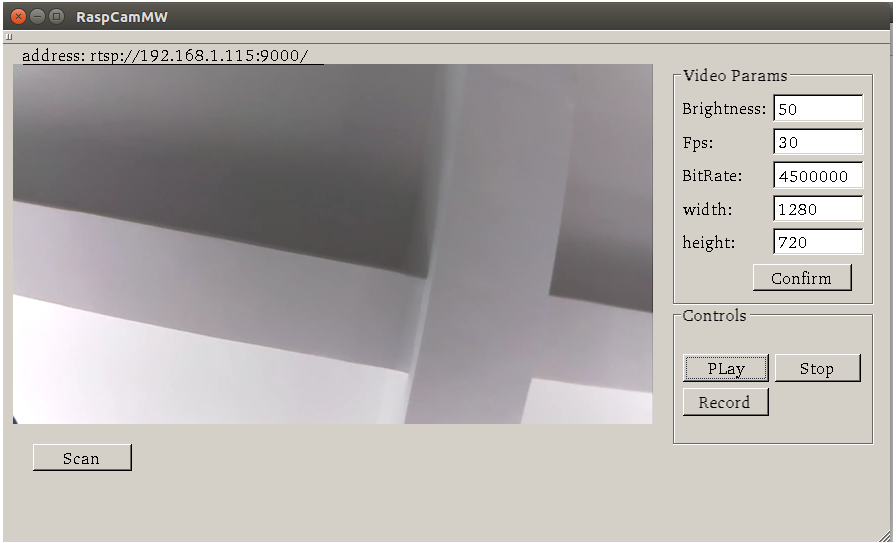
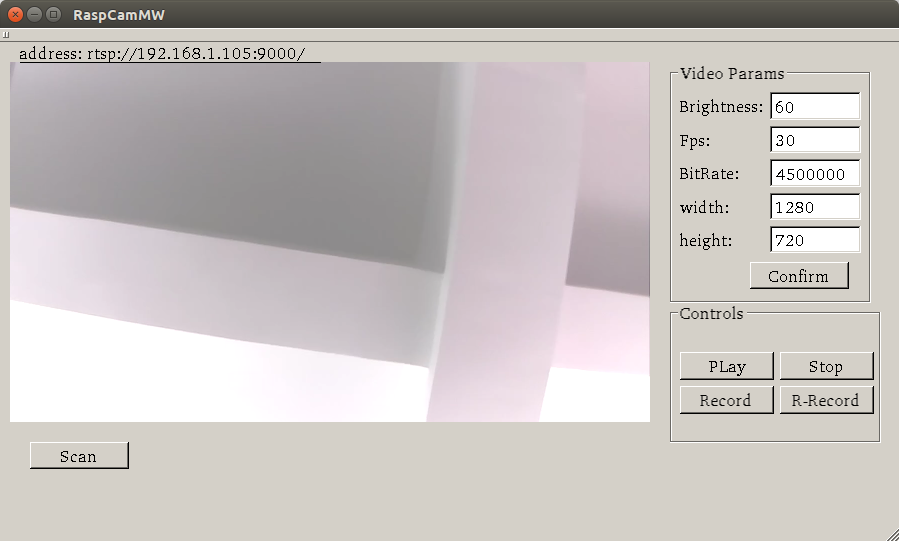
support video record server and client

diff --git a/server/ctlserver.py b/server/ctlserver.py
@@ -6,6 +6,7 @@
 import os
 import sys
 import cgi
+import time
 import signal
 import socket
 import threading
@@ -14,6 +15,7 @@ import SocketServer
 import BaseHTTPServer
 import logging
 import subprocess
+
 
 
 def signal_handler(signals, frame):
@@ -68,6 +70,8 @@ class RaspvidCmd(object):
         self.width = 1280
         self.height = 720
         self.stime = 0         # forever
+        self.record = False
+        self.recordfname = ''
 
     def cmd(self):
         """ return cmd str """
@@ -86,8 +90,15 @@ class RaspvidCmd(object):
 
         cmdstr += '|' + ' '
         cmdstr += vlcbase + ' '
-        cmdstr += "-vvv stream:///dev/stdin --sout '#rtp{sdp=rtsp://:"
-        cmdstr += str(self.rtsp_port) + "/}' :demux=h264"
+        cmdstr += '-vvv stream:///dev/stdin --sout' + ' '
+        if self.record and self.recordfname is not '':
+            cmdstr += "'#duplicate{dst=rtp{sdp=rtsp://:" + \
+                      str(self.rtsp_port) + '/}' + \
+                      ',dst=standard{access=file,mux=mp4,dst=' + \
+                      self.recordfname +'.mp4' + "}}'" + ' :demux=h264'
+        else:
+            cmdstr += "'#rtp{sdp=rtsp://:"
+            cmdstr += str(self.rtsp_port) + "/}' :demux=h264"
         return cmdstr
 
 
@@ -165,6 +176,8 @@ class TcpCtlHandler(SocketServer.BaseRequestHandler):
         """ start video process """
         self.vvpmng.getlock()
         try:
+            self.vvpmng.process_cmd.record = False
+            self.vvpmng.process_cmd.recordfname = ''
             if not self.vvpmng.isset():
                 self.vvpmng.start()
                 self.request.sendall(self.vvpmng.process_cmd.cmd())
@@ -249,6 +262,47 @@ class TcpCtlHandler(SocketServer.BaseRequestHandler):
         finally:
             self.vvpmng.releaselock()
 
+    def __record(self):
+        recdir = '/home/pi/records'
+        currtime = time.gmtime()
+        rec_sub_dir_name = ''
+        rec_sub_dir_name += str(currtime.tm_year) + '_'
+        rec_sub_dir_name += str(currtime.tm_mon) + '_'
+        rec_sub_dir_name += str(currtime.tm_mday)
+        day_recdir = recdir + '/' + rec_sub_dir_name
+        filename = str(currtime.tm_hour) + ':' + \
+                   str(currtime.tm_min) + ':' + \
+                   str(currtime.tm_sec)
+        whole_fname = day_recdir + '/' + filename
+        if os.path.exists(day_recdir):
+            if os.path.isdir(day_recdir):
+                if os.path.exists(whole_fname):
+                    os.remove(whole_fname)
+            else:
+                os.remove(day_recdir)
+                os.makedirs(day_recdir)
+        else:
+            os.makedirs(day_recdir)
+
+        self.vvpmng.getlock()
+        self.vvpmng.process_cmd.record = True
+        self.vvpmng.process_cmd.recordfname = whole_fname
+        APPLOGGER.debug(self.vvpmng.process_cmd.cmd())
+        try:
+            if not self.vvpmng.isset():
+                self.vvpmng.start()
+                return
+            if self.vvpmng.isrun():
+                self.vvpmng.stop()
+                self.vvpmng.setprocess(None)
+                self.vvpmng.start()
+            else:
+                self.vvpmng.start()
+        finally:
+            self.request.sendall(self.vvpmng.process_cmd.cmd())
+            self.vvpmng.releaselock()
+
+
     def __process_req(self, data):
         """ process req """
         data = data.strip(' \n')
@@ -262,6 +316,8 @@ class TcpCtlHandler(SocketServer.BaseRequestHandler):
             self.__sysinfo()
         elif data.lower().startswith('change'):
             self.__changevprocss(data)
+        elif data.lower() == 'record':
+            self.__record()
         else:
             APPLOGGER.info('Cmd not support: ' + data)
 

diff --git a/client/RaspiCamClient/controlclient.cpp b/client/RaspiCamClient/controlclient.cpp
@@ -1,5 +1,4 @@
 #include "controlclient.h"
-#include <QStringList>
 #include <QEventLoop>
 
 
@@ -12,6 +11,7 @@ ControlClient::ControlClient(QHostAddress server, qint16 port, QObject *parent) 
     _request = new TcpRequest(this, 1);
     connect(_request, SIGNAL(sigmsg(QString)), this, SLOT(servermsg(QString)));
     _raspcmd_prefix = "raspivid";
+    _supportcmds << "start" << "stop" << "change" << "record";
 }
 
 ControlClient::~ControlClient() {
@@ -22,23 +22,38 @@ ControlClient::~ControlClient() {
 }
 
 void ControlClient::start() {
-    if(_request->connectHost(_serveraddr, _port, 100)) {
-        _request->sendData("start");
-    }
+    _sig_cmd("start");
 }
 
 void ControlClient::stop() {
-    if(_request->connectHost(_serveraddr, _port, 100)) {
-        _request->sendData("stop");
+    _sig_cmd("stop");
+}
+
+void ControlClient::_sig_cmd(const QString &cmd) {
+    if(_supportcmds.contains(cmd)) {
+        if(_request->connectHost(_serveraddr, _port, 100)) {
+            _request->sendData(cmd.toStdString().c_str());
+        }
+    }
+}
+
+void ControlClient::_para_cmd(const QString &prefix, const QString &params) {
+    if(_supportcmds.contains(prefix)) {
+        QString cmd = "";
+        cmd = prefix + "|";
+        cmd += params;
+        if(_request->connectHost(_serveraddr, _port, 100)) {
+            _request->sendData(cmd.toStdString().c_str());
+        }
     }
 }
 
 void ControlClient::change(QString params) {
-    if(_request->connectHost(_serveraddr, _port, 100)) {
-        QString cmd = "change|";
-        cmd += params;
-        _request->sendData(cmd.toStdString().c_str());
-    }
+    _para_cmd("change", params);
+}
+
+void ControlClient::record() {
+    _sig_cmd("record");
 }
 
 

diff --git a/client/RaspiCamClient/raspcammw.cpp b/client/RaspiCamClient/raspcammw.cpp
@@ -44,6 +44,7 @@ void RaspCamMW::_extUISetUp() {
     ui->le_fps->setEnabled(false);
     ui->le_height->setEnabled(false);
     ui->le_width->setEnabled(false);
+    ui->btn_remoteRcd->setEnabled(false);
 }
 
 void RaspCamMW::_exDataSetUp() {
@@ -145,6 +146,7 @@ void RaspCamMW::recvmsg(QString msg) {
     ui->btnRecord->setEnabled(true);
     ui->btnStart->setEnabled(true);
     ui->btnStop->setEnabled(true);
+    ui->btn_remoteRcd->setEnabled(true);
 
     ui->btn_confirm->setEnabled(true);
     ui->le_bright->setEnabled(true);
@@ -221,3 +223,16 @@ void RaspCamMW::on_btn_confirm_clicked() {
     QTimer::singleShot(_cntdown_msec, this, SLOT(laterstart()));
 }
 
+
+void RaspCamMW::on_btn_remoteRcd_clicked() {
+    if(_vview->isStart()) {
+        _vview->stop();
+    }
+    if(ctlc != NULL) {
+        ctlc->record();
+        _vview->setWeburl(_streamurl);
+        _processtimer.start();
+        _processtime.restart();
+        QTimer::singleShot(_cntdown_msec, this, SLOT(laterstart()));
+    }
+}

diff --git a/client/RaspiCamClient/controlclient.h b/client/RaspiCamClient/controlclient.h
@@ -4,6 +4,7 @@
 #include <QObject>
 #include <QHostAddress>
 #include <QMap>
+#include <QStringList>
 #include "tcprequest.h"
 
 class ControlClient : public QObject
@@ -15,17 +16,24 @@ public:
     void start();
     void stop();
     void change(QString params);
+    void record();
 signals:
     void routeOut(QMap<QString, QString>);
 public slots:
     void servermsg(QString msg);
 private:
+    void _sig_cmd(const QString &cmd);
+    void _para_cmd(const QString &prefix, const QString &params);
+private:
+
     QMap<QString, QString> _parsecmd(QString cmdstr);
     QString _parsepara(QString para);
     QHostAddress _serveraddr;
     qint16 _port;
     TcpRequest *_request;
     QString _raspcmd_prefix;
+    QStringList _supportcmds;
+
 };
 
 #endif // CONTROLCLIENT_H

diff --git a/client/RaspiCamClient/raspcammw.h b/client/RaspiCamClient/raspcammw.h
@@ -34,6 +34,8 @@ private slots:
 
     void on_btn_confirm_clicked();
 
+    void on_btn_remoteRcd_clicked();
+
 private:
     void _extUISetUp();
     void _exDataSetUp();

diff --git a/README.md b/README.md
@@ -27,6 +27,8 @@ Software:
 
  - (Capture video use raspivid and Streaming video use vlc)
  - support start, stop video streaming control
+ - support video record local(pc) and remote(Pi) 
+   (local record file in currdir remote record file in /home/pi/records/year-month-day/hh:mm:ss.mp4)
  - support remote change video streaming parameters(brightness, fps, bitrate, video width, video height...)
  - support auto discovery
  - support web access(control)
@@ -36,6 +38,7 @@ Software:
  - (Play video use libvlc based on Qt)
  - support auto discovery Rpi(just push scan button)
  - support start, stop control
+ - support record and remote-record control
  - support remote change Rpi video streaming parameters(brightness, fps, bitrate, video width, video height...)
 
 
